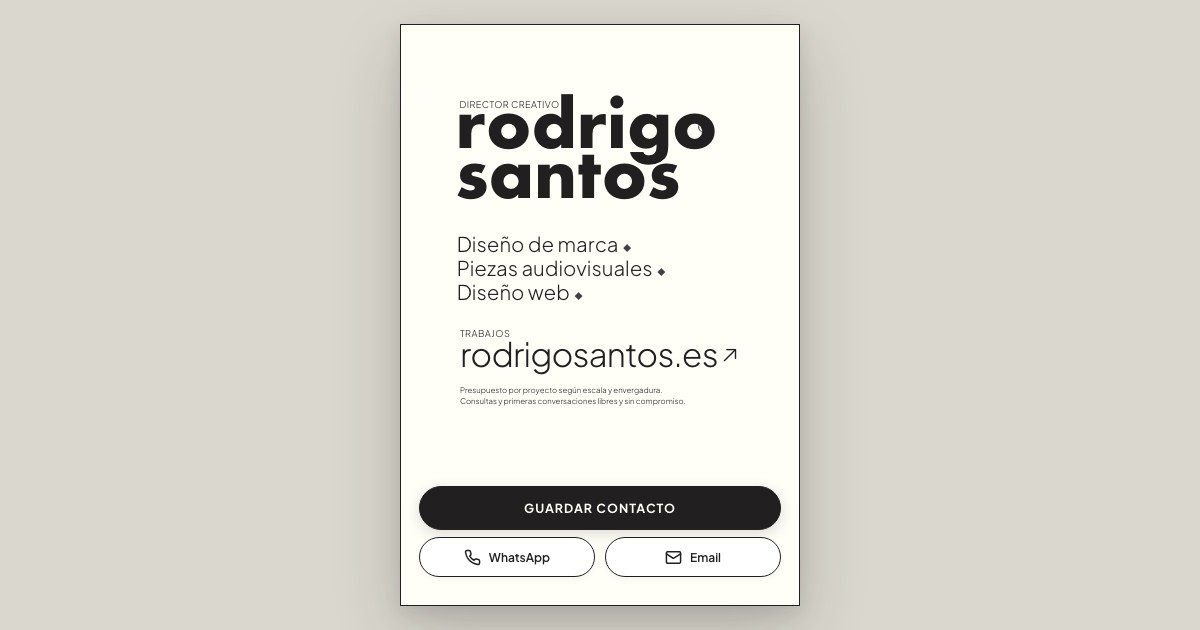
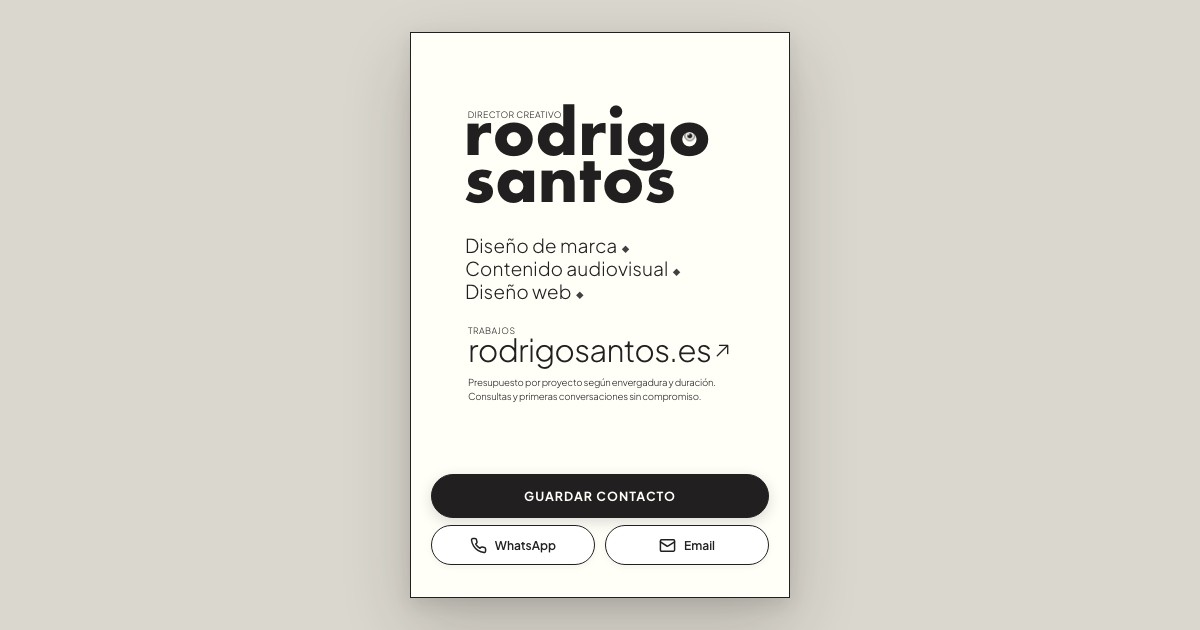
copy(vcard): change 'Piezas audiovisuales' to 'Contenido audiovisual'

Changed region(s): [[0.3083, 0.0302, 0.6783, 0.9651]]

diff --git a/src/components/VirtualCard/VirtualCard.jsx b/src/components/VirtualCard/VirtualCard.jsx
@@ -6,7 +6,7 @@ const translations = {
     badge: 'DIRECTOR CREATIVO',
     services: [
       { text: 'Diseño de marca', diamond: true },
-      { text: 'Piezas audiovisuales', diamond: true },
+      { text: 'Contenido audiovisual', diamond: true },
       { text: 'Diseño web', diamond: true },
     ],
     workLabel: 'TRABAJOS',
@@ -18,13 +18,13 @@ const translations = {
     saveContact: 'GUARDAR CONTACTO',
     whatsappMessage: 'Hola Rodrigo',
     vcardTitle: 'Director Creativo',
-    vcardNote: 'Director Creativo enfocado en diseño de marca, piezas audiovisuales y diseño web.',
+    vcardNote: 'Director Creativo enfocado en diseño de marca, contenido audiovisual y diseño web.',
   },
   en: {
     badge: 'CREATIVE DIRECTOR',
     services: [
       { text: 'Brand Design', diamond: true },
-      { text: 'Audiovisual Pieces', diamond: true },
+      { text: 'Audiovisual Content', diamond: true },
       { text: 'Web Design', diamond: true },
     ],
     workLabel: 'WORK',
@@ -36,7 +36,7 @@ const translations = {
     saveContact: 'SAVE CONTACT',
     whatsappMessage: 'Hello Rodrigo',
     vcardTitle: 'Creative Director',
-    vcardNote: 'Creative Director focused on brand design, audiovisual pieces and web design.',
+    vcardNote: 'Creative Director focused on brand design, audiovisual content and web design.',
   },
 }
 

diff --git a/hola/index.html b/hola/index.html
@@ -10,7 +10,7 @@
     <meta name="viewport" content="width=device-width, initial-scale=1.0, maximum-scale=1.0, user-scalable=no, viewport-fit=cover" />
     
     <title>Rodrigo Santos — Dirección Creativa</title>
-    <meta name="description" content="Rodrigo Santos — Dirección Creativa. Diseño de marca, Piezas audiovisuales y Diseño web." />
+    <meta name="description" content="Rodrigo Santos — Dirección Creativa. Diseño de marca, Contenido audiovisual y Diseño web." />
 
     <!-- Open Graph / WhatsApp / Facebook -->
     <meta property="og:type" content="website" />

diff --git a/hello/index.html b/hello/index.html
@@ -10,7 +10,7 @@
     <meta name="viewport" content="width=device-width, initial-scale=1.0, maximum-scale=1.0, user-scalable=no, viewport-fit=cover" />
     
     <title>Rodrigo Santos — Creative Direction</title>
-    <meta name="description" content="Rodrigo Santos — Creative Direction. Brand design, Audiovisual pieces and Web design." />
+    <meta name="description" content="Rodrigo Santos — Creative Direction. Brand design, Audiovisual content and Web design." />
 
     <!-- Open Graph / WhatsApp / Facebook -->
     <meta property="og:type" content="website" />
